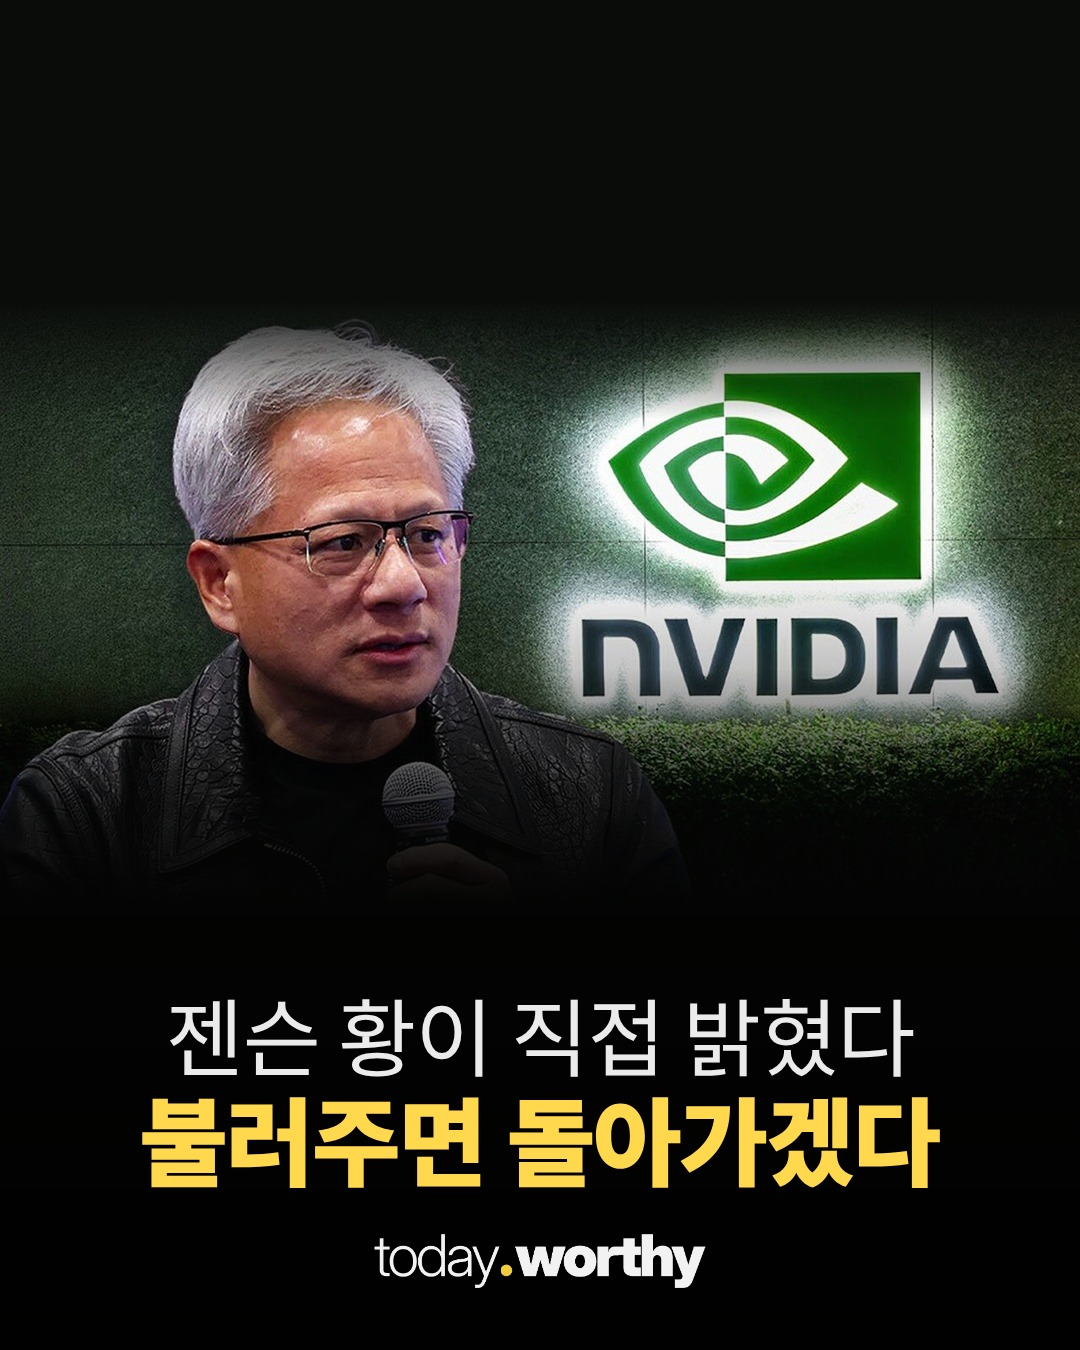
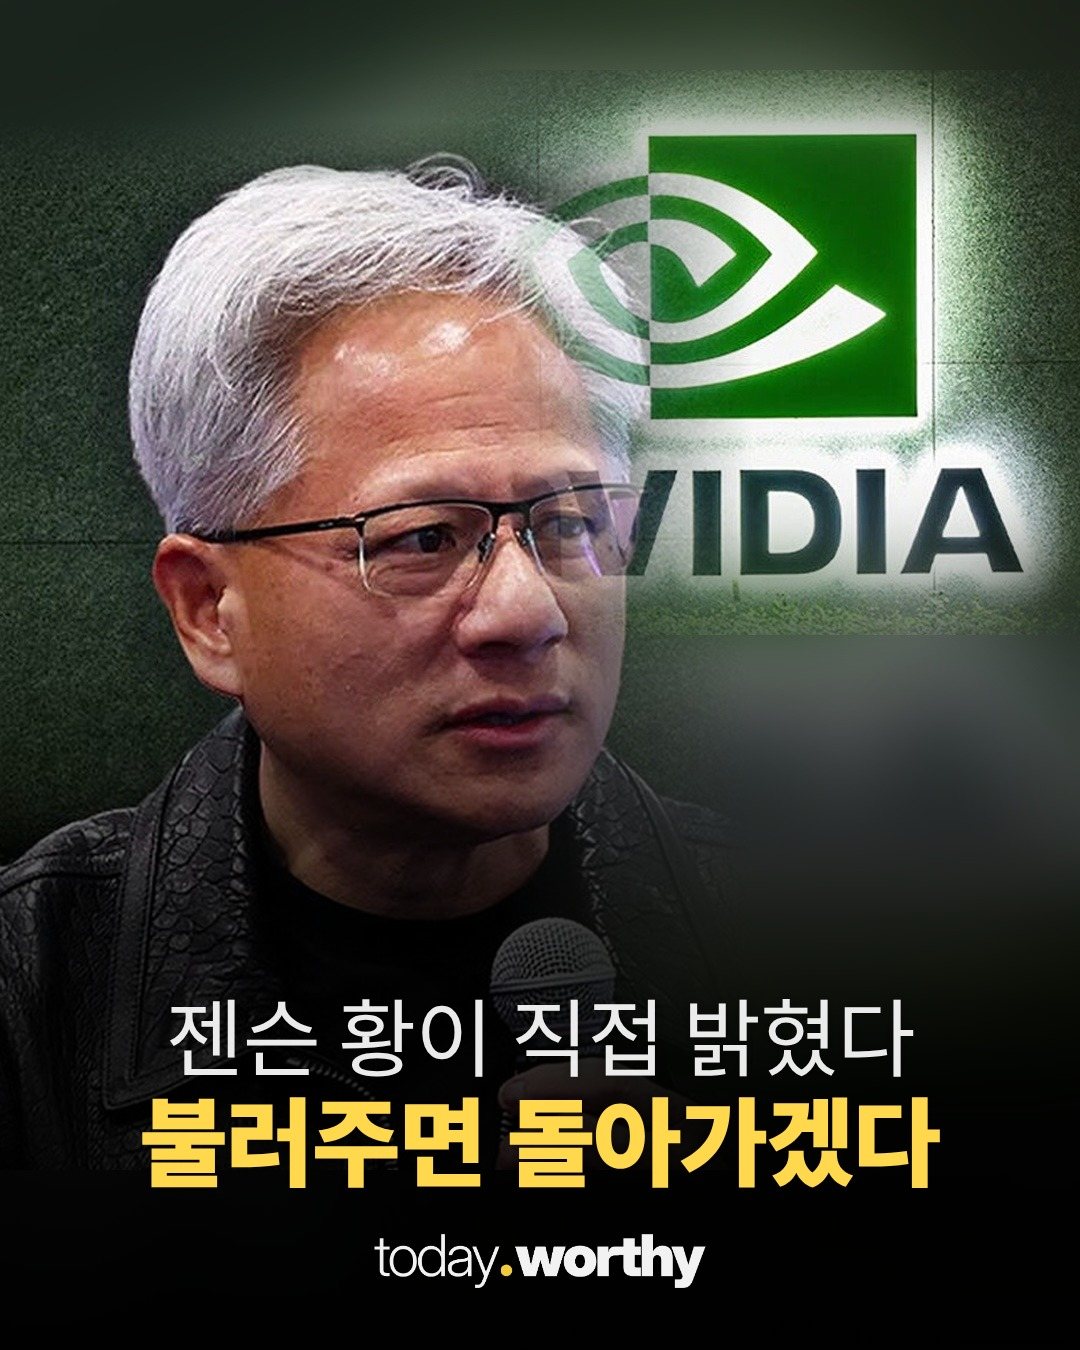
jhreturn 표지: 꽉 차게, 로고를 젠슨 뒤로
Claude-Session: https://claude.ai/code/session_01FGsw5QnWxFUsnopcB1Czie

diff --git a/media/20261117-jhreturn/build_cards.py b/media/20261117-jhreturn/build_cards.py
@@ -21,12 +21,22 @@ specs = [
 ]
 sp = O / "specs.json"; sp.write_text(json.dumps(specs, ensure_ascii=False))
 subprocess.run([sys.executable, str(R / "scripts/post_cap_card.py"), str(sp)], check=True)
-# 표지(사용자): 젠슨 황과 엔비디아 로고가 함께 보이게 가로 사진을 폭에 맞춰 위쪽에 크게, 아래는 어둡게 이어 글자 자리
-ph = Image.open(O / "chip.jpg").convert("RGB"); ph = ph.resize((W, round(ph.height * W / ph.width)), Image.LANCZOS)
-bgc = (10, 12, 10); cov = Image.new("RGB", (W, H), bgc); top = 300; cov.paste(ph, (0, top))
-g = Image.new("L", (W, 240)); g.putdata([int(255 * y / 239) for y in range(240) for _ in range(W)])
-cov.paste(Image.new("RGB", (W, 240), bgc), (0, top + ph.height - 240), g)
-g2 = Image.new("L", (W, 120)); g2.putdata([int(255 * (119 - y) / 119) for y in range(120) for _ in range(W)])
-cov.paste(Image.new("RGB", (W, 120), bgc), (0, top), g2)
+# 표지(사용자): 화면 꽉 차게 + 로고를 젠슨 황 뒤로. 오른쪽 로고 부분을 배경으로 크게 깔고, 왼쪽 젠슨 황 부분을 앞에 겹쳐 페이드
+src = Image.open(O / "chip.jpg").convert("RGB")  # 1280x720
+bgl = ImageOps.fit(src.crop((560, 0, 1280, 720)), (W, H), Image.LANCZOS).filter(ImageFilter.GaussianBlur(45)); bgl = Image.blend(bgl, Image.new("RGB", (W, H), (6, 10, 6)), .45)  # 초록 벽 흐린 바탕
+logo = src.crop((660, 30, 1250, 520)); LW = 680; logo = logo.resize((LW, round(logo.height * LW / logo.width)), Image.LANCZOS)
+lm = Image.new("L", logo.size, 0); ImageDraw.Draw(lm).rounded_rectangle((50, 40, logo.width - 20, logo.height - 50), 80, fill=255); lm = lm.filter(ImageFilter.GaussianBlur(45))
+bgl.paste(logo, (W - LW + 20, 70), lm)
+jh = src.crop((0, 0, 640, 720)); JH = 1050; jh = jh.resize((round(jh.width * JH / jh.height), JH), Image.LANCZOS)
+ox, oy = -170, 120
+lay = bgl.copy(); lay.paste(jh, (ox, oy))
+fx0, fx1 = ox + jh.width - 260, ox + jh.width - 10
+row = Image.new("L", (W, 1)); row.putdata([255 if x < fx0 else 0 if x > fx1 else int(255 * (fx1 - x) / (fx1 - fx0)) for x in range(W)])
+m = Image.new("L", (W, H), 0); m.paste(row.resize((W, JH)), (0, oy))
+col = Image.new("L", (1, 70)); col.putdata([int(255 * y / 69) for y in range(70)])
+m2 = Image.new("L", (W, H), 255); m2.paste(col.resize((W, 70)), (0, oy)); m2.paste(0, (0, 0, W, oy))
+from PIL import ImageChops
+mask = ImageChops.multiply(m, m2)
+cov = Image.composite(lay, bgl, mask)
 cov.save(O / "cover_bg.jpg", quality=95)
 print("ok")
